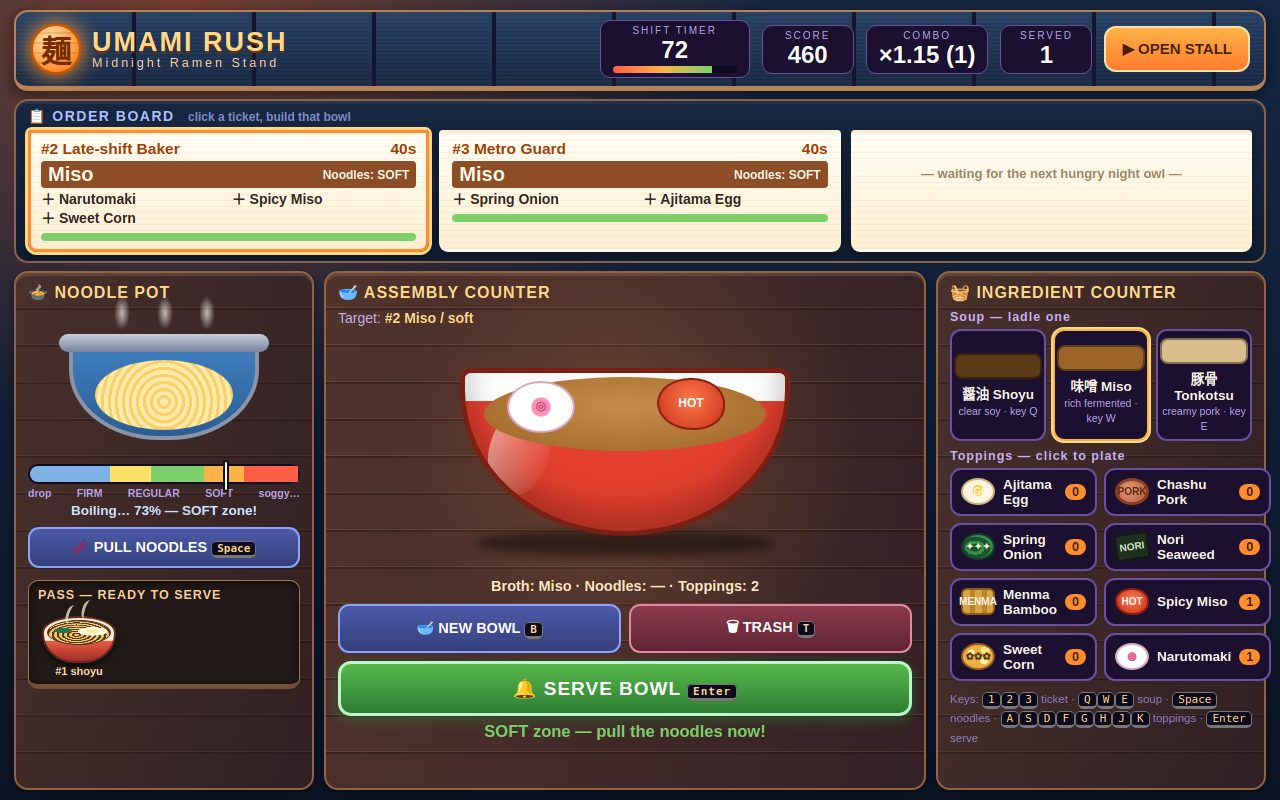
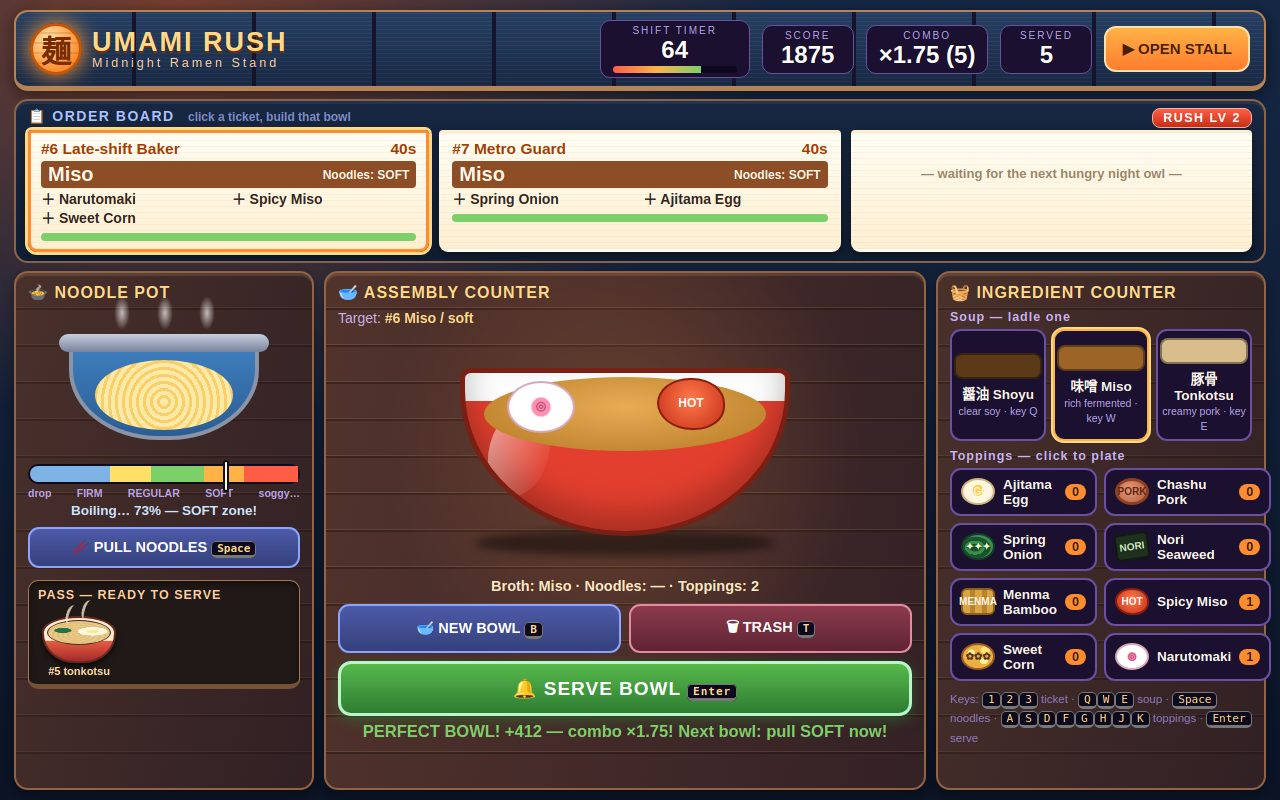
Round 6 (Muse): PERFECT-moment play scene, accuracy/grade in results, RUSH LV label, cover pot in target zone, broth colour separation

diff --git a/game/src/shots.js b/game/src/shots.js
@@ -34,7 +34,7 @@ export function buildShotScene(name, seed) {
     target.patienceLeft = 24;
     state.orders[1].patienceLeft = 8;
     plateTicket(state, target, 3);
-    state.kitchen.potProgress = 0.55;
+    state.kitchen.potProgress = 0.37; // needle centred in the target's FIRM zone: pull moment is next
     state.feedback = 'One topping to go — then ring the bell!';
     state.feedbackKind = 'good';
   }
@@ -55,15 +55,17 @@ export function buildShotScene(name, seed) {
   }
 
   if (name === 'play') {
-    state.timeLeft = 72; state.elapsed = 18;
-    state.score = 460; state.combo = 1; state.servedCount = 1; state.perfectCount = 1;
-    state.kitchen.pass = [{ label: '#1 shoyu', broth: 'shoyu' }];
-    state.orders.forEach((order, index) => { order.number = 2 + index; });
+    // The payoff moment: the last bowl was PERFECT, the combo is hot, and the
+    // next bowl is already boiling toward its SOFT window.
+    state.timeLeft = 64; state.elapsed = 26;
+    state.score = 1875; state.combo = 5; state.servedCount = 5; state.perfectCount = 4;
+    state.kitchen.pass = [{ label: '#5 tonkotsu', broth: 'tonkotsu' }];
+    state.orders.forEach((order, index) => { order.number = 6 + index; });
     Object.assign(target, { broth: 'miso', doneness: 'soft', toppings: ['narutomaki', 'karamiso', 'corn'] });
     plateTicket(state, target, 2);
     state.kitchen.bowl.noodleDoneness = null;
     state.kitchen.potProgress = 0.73;
-    state.feedback = 'SOFT zone — pull the noodles now!';
+    state.feedback = 'PERFECT BOWL! +412 — combo ×1.75! Next bowl: pull SOFT now!';
     state.feedbackKind = 'good';
   }
 
@@ -81,7 +83,8 @@ export function buildShotScene(name, seed) {
 }
 
 export function shotEndSummary(state) {
-  return `Bowls served: ${state.servedCount} · Perfect bowls: ${state.perfectCount}
-` +
-    `Walked out hungry: ${state.walkedOut} · Final score: ${state.score}`;
+  const accuracy = state.servedCount > 0 ? Math.round((state.perfectCount / state.servedCount) * 100) : 0;
+  const grade = accuracy >= 80 ? 'S' : accuracy >= 60 ? 'A' : accuracy >= 40 ? 'B' : 'C';
+  return `Bowls served: ${state.servedCount} · Perfect bowls: ${state.perfectCount} · Accuracy: ${accuracy}%\n` +
+    `Walked out hungry: ${state.walkedOut} · Final score: ${state.score} · Stall grade: ${grade}`;
 }

diff --git a/game/style.css b/game/style.css
@@ -32,6 +32,8 @@ body {
 #order-board { background: #20264d; border: 2px solid #4d5aa8; border-radius: 14px; padding: 7px 12px 9px; }
 .board-title { font-weight: 800; letter-spacing: 1.5px; font-size: 14px; color: #aec2ff; margin-bottom: 6px; }
 .board-title span { color: #7f8cc9; font-weight: 600; letter-spacing: 0; font-size: 12px; margin-left: 8px; }
+#rush-level { float: right; background: linear-gradient(180deg,#ff5d47,#c62f16); color: #fff; font-weight: 900;
+  letter-spacing: 1.5px; font-size: 12.5px; padding: 2px 10px; border-radius: 8px; border: 1.5px solid #ffb3a3; }
 #tickets { display: flex; gap: 10px; }
 .ticket { flex: 1; background: linear-gradient(180deg,#fffdf4,#ffefd2); color: #33241a; border-radius: 10px;
   padding: 7px 10px 8px; cursor: pointer; border: 3px solid transparent; position: relative; min-height: 104px;
@@ -91,8 +93,8 @@ kbd { background: #0e0a1e; border: 1px solid #777; border-bottom-width: 3px; bor
   box-shadow: inset 0 -18px 30px rgba(0,0,0,.25); }
 #bowl-shadow { position: absolute; bottom: 22px; width: 300px; height: 26px; background: rgba(0,0,0,.45); border-radius: 50%; filter: blur(4px); z-index: -1; }
 #broth { position: absolute; left: 6%; right: 6%; top: 4px; height: 74px; border-radius: 50%; background: #4a3421; transition: background .3s; }
-#broth.shoyu { background: radial-gradient(ellipse at 50% 40%, #8a5a2b, #5d3a17); }
-#broth.miso { background: radial-gradient(ellipse at 50% 40%, #c98d4b, #9c6527); }
+#broth.shoyu { background: radial-gradient(ellipse at 50% 40%, #6e4520, #38220e); }
+#broth.miso { background: radial-gradient(ellipse at 50% 40%, #e8ac55, #b57a24); }
 #broth.tonkotsu { background: radial-gradient(ellipse at 50% 40%, #f3e3c2, #d9bd8d); }
 #noodle-layer { position: absolute; left: 16%; right: 16%; top: 16px; height: 52px; border-radius: 50%; opacity: 0;
   background: repeating-radial-gradient(ellipse at 50% 50%, #ffe9a8 0 5px, #f2c94c 5px 9px); transition: opacity .3s; }

diff --git a/game/src/render.js b/game/src/render.js
@@ -1,7 +1,7 @@
 // All DOM rendering: HUD, tickets, pot, bowl and counter buttons. The game
 // state modules never touch the document; everything visual happens here.
 import { BROTHS, TOPPINGS, brothById, toppingById, PLATING_SPOTS } from './config.js';
-import { selectedOrder } from './game.js';
+import { selectedOrder, elapsedRatio } from './game.js';
 
 const el = (id) => document.getElementById(id);
 
@@ -42,6 +42,7 @@ export function renderGame(state) {
   el('score').textContent = String(state.score);
   el('combo').textContent = `×${(1 + 0.15 * Math.min(state.combo, 6)).toFixed(2).replace(/0$/, '')} (${state.combo})`;
   el('served').textContent = String(state.servedCount);
+  el('rush-level').textContent = `RUSH LV ${1 + Math.floor(elapsedRatio(state) * 3.99)}`;
 
   // Tickets
   const tickets = el('tickets');

diff --git a/game/index.html b/game/index.html
@@ -29,7 +29,7 @@
   </header>
 
   <section id="order-board">
-    <div class="board-title">📋 ORDER BOARD <span>click a ticket, build that bowl</span></div>
+    <div class="board-title">📋 ORDER BOARD <span>click a ticket, build that bowl</span><span id="rush-level">RUSH LV 1</span></div>
     <div id="tickets"></div>
   </section>
 
